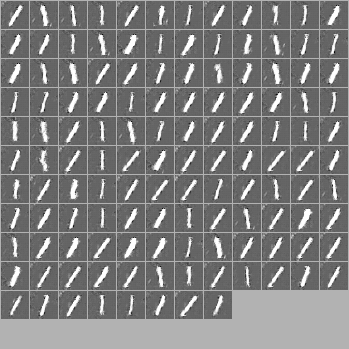
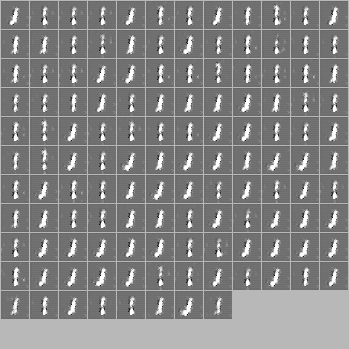
Mnist with full log

diff --git a/models.py b/models.py
@@ -33,7 +33,7 @@ class ALOCC_Model():
     def __init__(self,
                input_height=28,input_width=28, output_height=28, output_width=28,
                attention_label=1, is_training=True,
-               z_dim=100, gf_dim=64, df_dim=64, c_dim=3,
+               z_dim=100, gf_dim=16, df_dim=16, c_dim=3,
                dataset_name=None, dataset_address=None, input_fname_pattern=None,
                log_dir=cfg.log_dir, r_alpha = 0.2,
                kb_work_on_patch=True, nd_patch_size=(10, 10), n_stride=1,
@@ -453,7 +453,7 @@ class ALOCC_Model():
                     plot_epochs.append(epoch+idx/batch_idxs)
                     plot_g_recon_losses.append(g_loss[1])
                 counter += 1
-                msg = 'Epoch:[{0}]-[{1}/{2}] --> d_loss: {3:>0.3f}, g_loss:{4:>0.3f}, g_recon_loss:{4:>0.3f}'.format(epoch, idx, batch_idxs, d_loss_real+d_loss_fake, g_loss[0], g_loss[1])
+                msg = 'Epoch:[{0}]-[{1}/{2}] --> d_loss: {3:>0.3f}, g_loss:{4:>0.3f}, g_recon_loss:{4:>0.3f}'.format(epoch+1, idx+1, batch_idxs, d_loss_real+d_loss_fake, g_loss[0], g_loss[1])
                 print(msg)
                 logging.info(msg)
                 if np.mod(counter, sample_interval) == 0:
@@ -463,7 +463,8 @@ class ALOCC_Model():
                         #manifold_w = int(np.floor(np.sqrt(samples.shape[0])))
                         #save_images(samples, [manifold_h, manifold_w],
                         #    './{}/train_{:02d}_{:04d}.png'.format(self.train_dir, epoch, idx))
-                        scipy.misc.imsave(self.train_dir+'train_%d_%d_samples.png'%(epoch,idx), montage(np.squeeze(samples)))
+                        #scipy.misc.imsave(self.train_dir+'train_%d_%d_samples.png'%(epoch,idx), montage(np.squeeze(samples)))
+                        scipy.misc.imsave('./{}/train_{:02d}_{:04d}_reconstructions.jpg'.format(self.train_dir,epoch,idx), montage(np.squeeze(samples)))
             # Save the checkpoint end of each epoch.
             if epoch % checkpoint_interval == 0:
                 self.save(epoch)
@@ -476,7 +477,7 @@ class ALOCC_Model():
         plt.ylabel('training loss')
         plt.grid()
         plt.plot(plot_epochs,plot_g_recon_losses)
-        plt.savefig(cfg.train_dir+'plot_g_recon_losses.png')
+        plt.savefig(self.train_dir+'plot_g_recon_losses.png')
 
         plt.clf()
         # Export the discriminator losses for real images as a plot.
@@ -485,7 +486,7 @@ class ALOCC_Model():
         plt.ylabel('training loss')
         plt.grid()
         plt.plot(plot_epochs,plot_d_real_losses)
-        plt.savefig(cfg.train_dir+'plot_d_real_losses.png')
+        plt.savefig(self.train_dir+'plot_d_real_losses.png')
 
         plt.clf()
         # Export the discriminator losses for fake images as a plot.
@@ -494,7 +495,7 @@ class ALOCC_Model():
         plt.ylabel('training loss')
         plt.grid()
         plt.plot(plot_epochs,plot_d_fake_losses)
-        plt.savefig(cfg.train_dir+'plot_d_fake_losses.png')
+        plt.savefig(self.train_dir+'plot_d_fake_losses.png')
 
 
     @property
